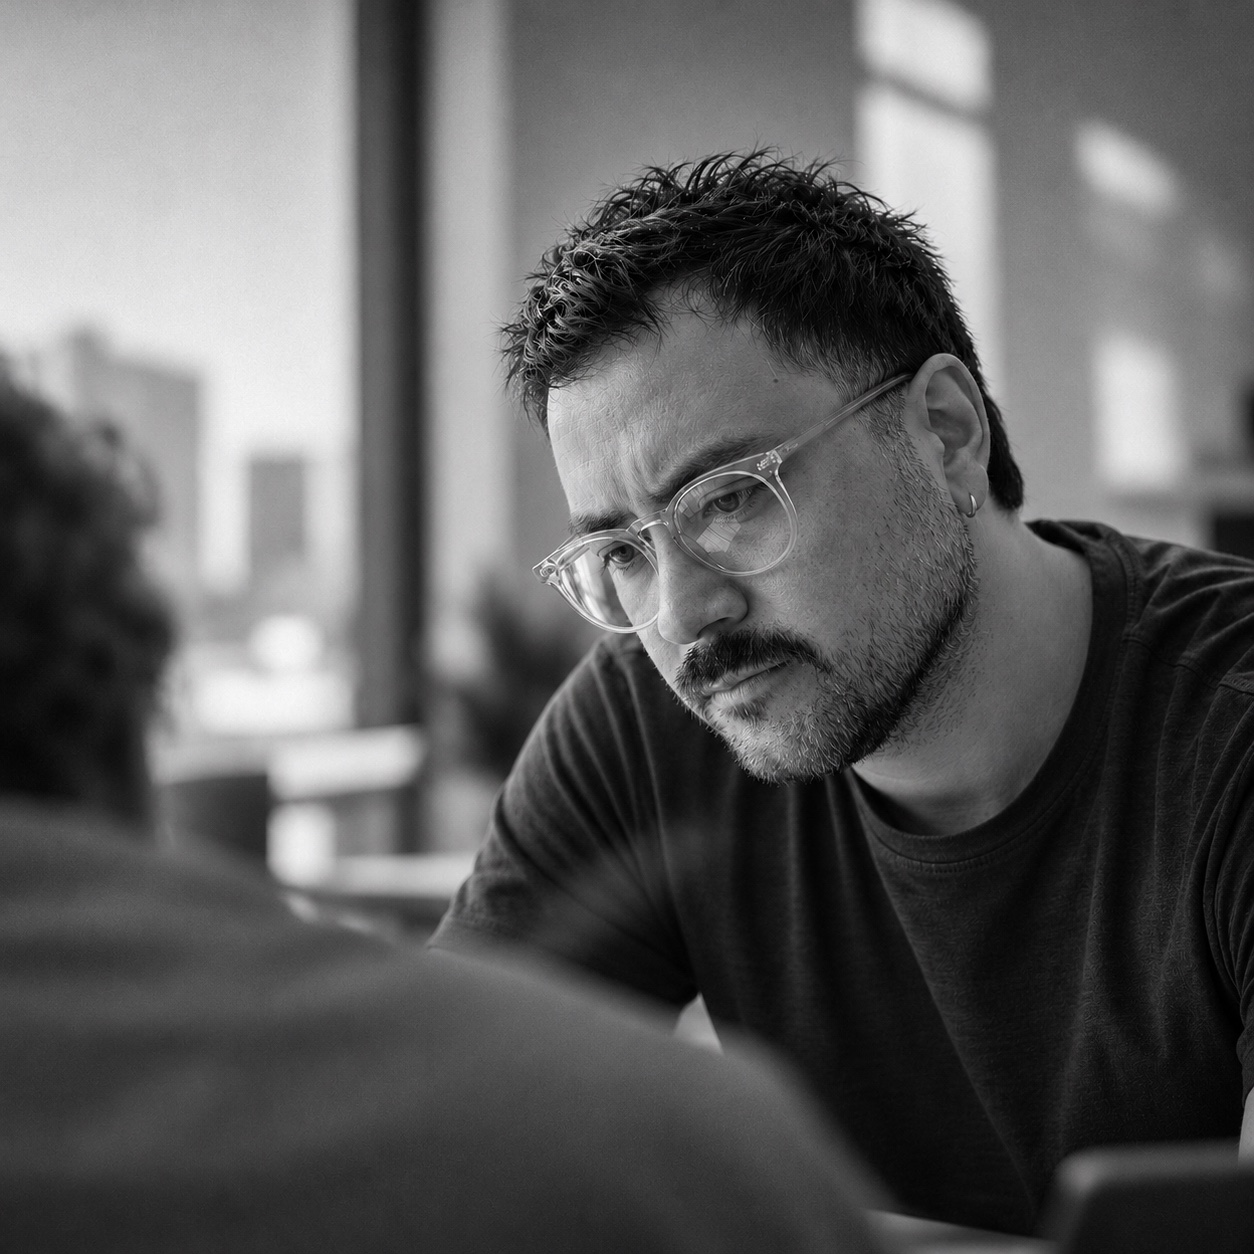
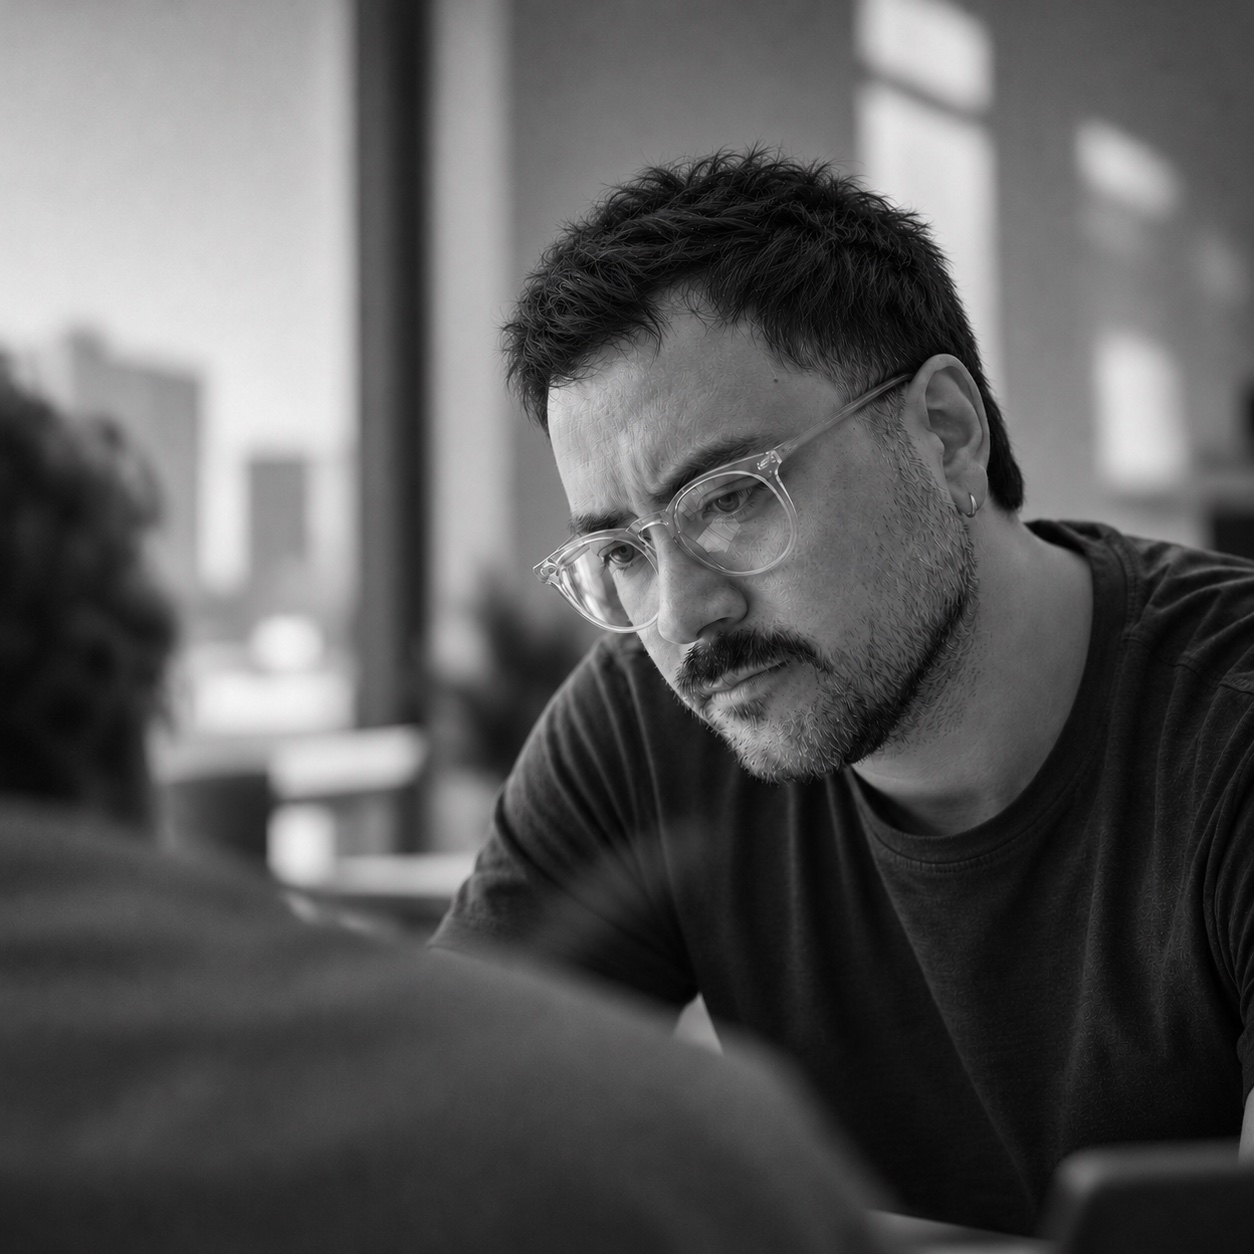
Add files via upload

diff --git a/index.html b/index.html
@@ -735,7 +735,7 @@ height="0" width="0" style="display:none;visibility:hidden"></iframe></noscript>
         </div>
     </div>
     <div class="hero-photo">
-        <img src="foto-hero.jpg" alt="Dani Olmedo" width="1254" height="1254">
+        <img src="foto-hero.jpg?v=2" alt="Dani Olmedo" width="1254" height="1254">
     </div>
 </section>
 
